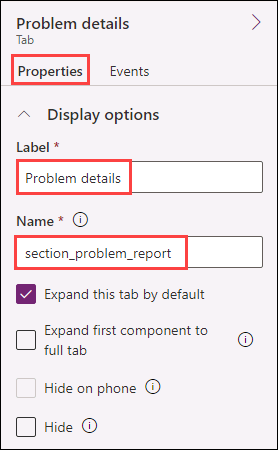
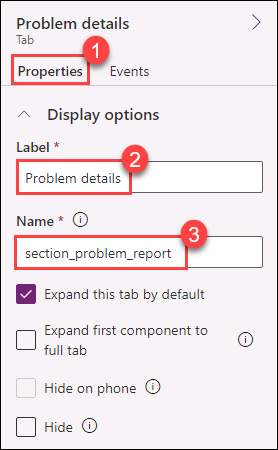
pushed

Changed region(s): [[0.4317, 0.3111, 0.5468, 0.4044], [0.6331, 0.4667, 0.7482, 0.5911], [0.2878, 0.0622, 0.4029, 0.1556]]

diff --git a/Instructions/Labs/lab02-data-model-and-model-driven-app.md b/Instructions/Labs/lab02-data-model-and-model-driven-app.md
@@ -50,9 +50,9 @@ In this exercise, you will create a custom solution publisher and a solution. Th
 
     ![A screenshot of the new publisher properties pane](02-1/media/image105(1).png)
 
-1.  Select **Lamna Healthcare (lamnahealthcare)** from the **Publisher** dropdown menu. 
+1.  Select **Lamna Healthcare (lamnahealthcare) (1)** from the **Publisher** dropdown menu. 
 
-1.  Select **Create**. 
+1.  Select **Create (2)**. 
 
     ![A screenshot of the new solution pane](02-1/media/image3(1).png)
 
@@ -114,11 +114,11 @@ In this task, you will add Columns to the Problem Report Table.
 
 3.  Select the **Problem Report** Table.
 
-4.  There are many ways to add a new column to the table. For this lab, select **+ New**, then select **Column** from the Schema group. 
+4.  There are many ways to add a new column to the table. For this lab, select **+ New (1)**, then select **Column (2)** from the Schema group. 
 
     ![A screenshot of the solution page with +New menu expanded and cursor pointing to the Column item](02-1/media/image13(1).png)
 
-5.  Enter `Location` for **Display name**. Select **Text > Single line of text > Plain text** for **Data type**. 
+5.  Enter `Location` for **Display name (1)**. Select **Text > Single line of text > Plain text** for **Data type (2)**. 
 
     ![A screenshot of a New column form with Data type dropdown expanded with Text > Plain text option selected](02-1/media/image14-1(1).png)
 
@@ -176,7 +176,7 @@ In this task, you will edit the Status Reason column of the Problem Report table
 
 7.  Select **+ New choice** and enter `Won’t Fix` for **Label**.
 
-8.  You should now have 5 options. Verify the **Default choice** is set as **New** and select **Save**.
+8.  You should now have 5 options. Verify the **Default choice** is set as **New (1)** and select **Save (2)**.
 
     ![A screenshot of the Status Reason column properties with 5 options and New as Default choice](02-1/media/image25(1).png)
 
@@ -193,7 +193,7 @@ In this task, you will create many-to-one relationships between the Problem Repo
 
 2.  Select **+ New \> Relationship \> Many-to-one**.
 
-3.  Select **Building** for the **Related (One)** table and select **Done**.
+3.  Select **Building** for the **Related (One) (1)** table and select **Done (2)**.
 
     ![A screenshot of the many-to-one relationship settings](02-1/media/image29(1).png)
 
@@ -224,47 +224,49 @@ In this exercise, you will configure form and views for the Problem Report table
 
     ![A screenshot of the form designer with General form section selected.](02-1/media/image31(1).png)
 
-6.  Go to the **Properties** pane, change the **Label** to `Problem details` and enter `section\_problem\_report` for **Name**.
+6.  Go to the **Properties (1)** pane, change the **Label (2)** to `Problem details` and enter `section\_problem\_report` for **Name (3)**.
 
     ![A screenshot of the properties pane with the relevant text in each field](02-1/media/image32(1).png)
 
-7.  While you still have the section selected, go to the **Table columns** pane, and select the **Building** Column. The Building Column will be added to the form.
+7.  While you still have the section selected, go to the **Table columns (1)** pane, and select the **Building (2)** Column. The Building Column will be added to the form.
 
     ![A screenshot of the form designer with Building column selected in the Table columns section.](02-1/media/image33(1).png)
 
-8.  Add the **Details**, and **Photo** Columns to the form.
+8.  Add the **Details**, and **Photo** Columns to the form. Select the **Details** Column.
 
-9.  Your form should now look like the image below. Select the **Details** Column.
+9. Go to the **Properties** pane and expand the **Formatting** section.
 
-10. Go to the **Properties** pane and expand the **Formatting** section.
-
-11. Change the **Form field height** to **4 rows**.
+10. Change the **Form field height** to **4 rows**.
 
     ![A screenshot of the form field height set to 4 rows](02-1/media/image36(1).png)
 
-12. Select the **+ Component** from the menu then select **1-column section**.
+11. Select the **Component (1)** from the top menu then select **1-column section (2)**.
 
-13. A new section should be added to the form. Select the **New Section**.
+    ![A screenshot of the form field height set to 4 rows](03-2/media/1-column.png)
 
-14. Go to the **Properties** pane, change the **Section label** to `Resolution details` and enter `section\_resolution\_details` for **Name**.
+12. A new section should be added to the form. Select the **New Section**.
+
+13. Go to the **Properties (1)** pane, change the **Label (2)** to `Resolution details` and enter `section\_resolution\_details` for **Name (3)**.
 
     ![A screenshot of the section properties pane with the relevant text in each field](02-1/media/image40(1).png)
 
-15. Select **Table columns** from the toolbar.
+14. Select **Table columns** from the toolbar.
 
-16. Add **Department**, **Status Reason**, **Resolved On**, and **Resolution** columns to the **Resolution details** section.
+15. Add **Department**, **Status Reason**, **Resolved On**, and **Resolution** columns to the **Resolution details** section.
 
-17. Select the **Resolution** Column.
+16. Select the **Resolution** Column.
 
-18. Go to the **Properties** pane and, if necessary expand the **Formatting** section.
+17. Go to the **Properties** pane and, if necessary expand the **Formatting** section.
 
-19. Change the **Form field height** to **4 rows**.
+18. Change the **Form field height** to **4 rows**.
 
-20. Your form should now look like the image below. Select **Save and publish**.
+19. Your form should now look like the image below. Select **Save and publish**.
 
-21. Wait for the publishing to complete.
+    ![A screenshot of the form field height set to 4 rows](03-2/media/newproblem.png)
 
-22. Select the **🡠 Back** button to return to the **Solution Explorer**.
+20. Wait for the publishing to complete.
+
+21. Select the **🡠 Back** button to return to the **Solution Explorer**.
 
     ![A screenshot of the form designer with the cursor over Back button inm the menu.](02-1/media/image43(1).png)
 
@@ -273,7 +275,7 @@ In this exercise, you will configure form and views for the Problem Report table
 
 1.  In the **Problem Report** table, under **Data experiences**, select **Views**.
 
-    ![A screenshot of the table designer screen with Views selected under the table entry.](02-1/media/image44-1(1).png)
+    ![A screenshot of the form field height set to 4 rows](03-2/media/problemreport.png)
 
 2.  Open the **Active Problem Reports** view.
 
@@ -289,7 +291,7 @@ In this exercise, you will configure form and views for the Problem Report table
 
 6.  Change the existing filter and set it to **Status Reason Equals New**.
 
-    ![A screenshot of the view filter with one condition of Status Reason Equals to New](02-1/media/image48(1).png) 
+    ![A Screenshot with an arrow pointing to the edit filters button](03-2/media/editfilter.png)
 
 7.  Expand the values drop-down with Status Reason values where **New** is selected.
 
@@ -328,9 +330,9 @@ In this task, you will create a new view from the Active Problem Reports view.
 
     ![A screenshot of the edit filters window with the following Status Reason values: Completed, Won't Fix, Inactive](02-1/media/image54(1).png)
 
-7.  Select the chevron next to the Save and publish button and select **Save As**.
+7.  Select **Save As** button.
 
-8.  Enter `Resolved Problems` for **Name** and select **Save**.
+8.  Enter `Resolved Problems` for **Name (1)** and select **Save (2)**.
 
     ![A screenshot of the Save As window](02-1/media/image56(1).png)
 
@@ -353,25 +355,23 @@ In this exercise, you will create a model-driven application.
 
 2.  Select **Solutions** and open the **Company 311** solution.
 
-3.  Select **+ New > App > Model-driven app** from the command bar.
+3.  Select **+ New (1)> App (2)> Model-driven app (3)** from the command bar.
 
     ![A screenshot of the menu to create a new model-driven app](02-1/media/image60(1).png)
 
-4.  Enter `Company 311 Admin` for name and select **Create**. 
+4.  Enter `Company 311 Admin` (1) for name and select **Create (2)**. 
 
     ![A screenshot of the New model-driven app window](02-1/media/image61(1).png)
 
 5.  Select **Navigation** from the left menu. 
 
-    ![A screenshot of the navigation pane with navigation bar selected](02-1/media/lab02-ex4-t1-s5-a.png)
+6.  In the properties pane, check **Enable Areas**.
 
     ![A screenshot of the navigation pane with navigation bar selected](02-1/media/lab02-ex4-t1-s5-b.png)
 
-6.  In the properties pane, check **Enable Areas**. 
-
 7.  Select **Area1**.
 
-8.  Go to the **Properties** pane, enter `Manage Problems` for **Title**, and enter `area_manage_problems` for **ID**.
+8.  Go to the **Properties** pane, enter `Manage Problems` for **Title (1)**, and enter `area_manage_problems` for **ID (2)**.
 
      ![A screenshot of the properties pane with the title and ID changed](02-1/media/lab02-ex4-t1-s8.png)
 
@@ -389,7 +389,7 @@ In this exercise, you will create a model-driven application.
     
 13. Select **New Group** in the navigation pane.
 
-14. Go to the **Properties**, enter `Problems` for **Title**, and enter `group_problems` for **ID**.
+14. Go to the **Properties**, enter `Problems` for **Title (1)**, and enter `group_problems` for **ID (2)**.
 
     ![A screenshot of the adding new area](02-1/media/lab02-ex4-t1-s14.png)
 
@@ -397,7 +397,7 @@ In this exercise, you will create a model-driven application.
     
     ![A screenshot of the adding new area](02-1/media/image107(1).png)
 
-17. Go to the **Properties** pane, enter `Settings` for **Title**, and enter `area_settings` for **ID**.
+17. Go to the **Properties** pane, enter `Settings` for **Title (1)**, and enter `area_settings` for **ID (2)**.
 
     ![A screenshot of the properties pane with the title and ID changed](02-1/media/lab02-ex4-t1-s16.png)
     
@@ -438,7 +438,7 @@ In this exercise, you will input data to the Dataverse tables.
 
 1.  Navigate to the [Power Apps maker portal](https://make.powerapps.com/) and make sure you are in the correct environment.
 
-2.  Select **Apps** and open the **Company 311 Admin** application created in the previous exercise.
+2.  Select **Apps (1)** and open the **Company 311 Admin (2)** application created in the previous exercise.
 
     ![A Screenshot with an arrow pointing to the Company 311 Admin app](02-1/media/lab02-ex5-t1-s2.png)
 
@@ -466,7 +466,7 @@ In this exercise, you will input data to the Dataverse tables.
 
 11. Enter `London Paddington` for **Name** and select **Save & Close**.
 
-    You should now have two Building rows.
+    >**Note:** You should now have two Building rows.
 
 12. Select **Change area**.
 
@@ -480,13 +480,11 @@ In this exercise, you will input data to the Dataverse tables.
 
 15. Enter **Broken door** for **Title**, select **San Francisco Main Campus** for **Building**, enter **The main entrance door will not open all the way** for **Details**, and select **Save**.
 
-    > **NOTE**
-    >
-    > You cannot save images before creating the row in the database. Select **Save** and then you may upload a picture.
+    >**Note:** You cannot save images before creating the row in the database. Select **Save** and then you may upload a picture.
 
     ![A screenshot of the new problem report window with all relevant text in each field](02-1/media/lab02-ex5-t1-s15.png)
 
-16. Select **Open file** on the **Photo** field.
+16. Select **Choose file** on the **Photo** field.
 
 17. Select an image from your device. The sample image displayed below can be found [here](02-1/media/image89(1).png).
 
@@ -509,11 +507,7 @@ In this exercise, you will import sample data into the environment. Rows are imp
 
 3.  Select **Browse**.
 
-4.  Select the **DataImport.zip** solution file located in the Lab Resources folder and select **Open**.
-
-    > **TIP** 
-    > 
-    > The solution file can be found here: ```F:\Instructions\Labs\02-1\Resources\DataImport.zip```
+4.  Select the **DataImport.zip** solution file located in the **C:\PL100\PL-100-Microsoft-Power-Platform-App-Maker-prod\Instructions\Labs\02-1\Resources** and select **Open**.
 
 5.  Select **Next**.
 
@@ -537,32 +531,30 @@ In this exercise, you will import sample data into the environment. Rows are imp
 1.  Open the **Data Import** solution you imported.
 
 2.  Select the **Import Data** flow. 
-
-3.  Select **Edit** from the Command Bar.
  
-5.  If necessary, dismiss the welcome prompt by selecting **Get started**.
+3.  If necessary, dismiss the welcome prompt by selecting **Get started**.
 
-6.  Expand the **InputData** step.
+4.  Select **Edit** from the Command Bar.
 
-7.  Review the JSON text in the **Value** field. This is the data that will be imported into your environment. Note: The image data is encoded as Base-64 text.
+5.  Expand the **InputData** step.
 
-8.  Expand the **EachDepartment** for each control.
+6.  Review the JSON text in the **Value** field. This is the data that will be imported into your environment. Note: The image data is encoded as Base-64 text.
 
-9.  Expand and review the **Upsert Department** step.
+7.  Expand the **EachDepartment** for each control.
 
-10. Expand and review the rest of the steps.
+8.  Expand and review the **Upsert Department** step.
 
-11. Select **Save** to save the flow.
+9. Expand and review the rest of the steps.
 
-12. Select the **🡠** back button to go back to the previous page.
+10. Select **Save** to save the flow.
+
+11. Select the **🡠** back button to go back to the previous page.
 
     ![A Screenshot with an arrow pointing to the arrow icon to go back](02-1/media/image92(1).png)
 
-13. Open the **Import Data** flow **Details** and select **Run**.
+12. Open the **Import Data** flow **Details** and select **Run**.
 
-    > **TIP**
-    >
-    > If the **Run** option is disabled then make sure the flow has been enabled by selecting **Turn on**.
+    >**Note:** If the **Run** option is disabled then make sure the flow has been enabled by selecting **Turn on**.
 
 14. Select **Run flow**.
 
@@ -587,9 +579,7 @@ In this exercise, you will import sample data into the environment. Rows are imp
 
     ![A screenshot with a border around problem new reports rows.](02-1/media/image104(1).png)
 
-    > **NOTE**
-    >
-    > Because the input status reason is picked randomly, some of the imported problem report rows may have the status reason of Completed, Won't Fix, or Inactive. Select the **Resolved Problems** view to find these rows.
+    >**Note:** Because the input status reason is picked randomly, some of the imported problem report rows may have the status reason of Completed, Won't Fix, or Inactive. Select the **Resolved Problems** view to find these rows.
 
 4.  Open one of the **Problem Report** Rows.
 

diff --git a/Instructions/Labs/lab06-power-automate.md b/Instructions/Labs/lab06-power-automate.md
@@ -48,7 +48,7 @@ In this task, you will create a flow that send notification when the status of p
 
     ![A screenshot showing dropdown menu to create new automated cloud flow](04/media/pl-100(6.1).png)
 
-4.  Select **+ New** > **Automation** > **Cloud Flow** > **Automated**.
+4.  Select **+ New (1)** > **Automation (2)** > **Cloud Flow (3)** > **Automated (4)**.
 
     ![A screenshot showing dropdown menu to create new automated cloud flow](04/media/pl-100(6.2).png)
 
@@ -128,7 +128,7 @@ In this task, you will create a flow that send notification when the status of p
     
 34. Select the **… Menu** button of the new step and select **Rename**.
 
-35. Rename the step to `Notify problem creator`(1)
+35. Rename the step to `Notify problem creator`
     
 37. At the top of the page, change the flow name from **Untitled** to `Notify Problem Creator`
 
@@ -143,7 +143,7 @@ In this task, you will create a flow that send notification when the status of p
 
 In this task, you will test the Notify Problem Creator flow.
 
-1.  On the Power Apps maker portal, `https://make.powerapps.com` ensure you are in the correct environment.
+1.  On the [Power Apps maker portal](https://make.powerapps.com/) and make sure you are in the correct environment.
 
 2.  Select **Apps**, and then select the **Company 311 Admin** Model-driven application. Select **Play**.
 

diff --git a/Instructions/Labs/lab03-business-process-flow-and-business-rules.md b/Instructions/Labs/lab03-business-process-flow-and-business-rules.md
@@ -51,7 +51,7 @@ In this task, you will create a business process flow for the Problem Report tab
 
 2.  Select **Solutions** and open the **Company 311** solution.
 
-3.  Select **+ New > Automation > Process > Business process flow**.
+3.  Select **+ New (1)> Automation (2)> Process (3)> Business process flow (4)**.
 
     ![image-20221004145025636](02-2/media/image2(1).png)
 
@@ -59,7 +59,7 @@ In this task, you will create a business process flow for the Problem Report tab
 
     ![A screenshot of New business process flow panel with relevant field values.](02-2/media/image3(1).png)
 
-5.  Open the **Problem resolution process** Business Process flow created in the previous step. Select the **New stage**, go to the **Properties** pane, change the **Display Name** to `Route` and select **Apply**. 
+5.  On the **Problem resolution process** Business Process flow created in the previous step. Select the **New stage**, go to the **Properties** pane, change the **Display Name** to `Route` and select **Apply**. 
 
     ![A screenshot of the new stage and properties pane](02-2/media/image4(1).png)
 
